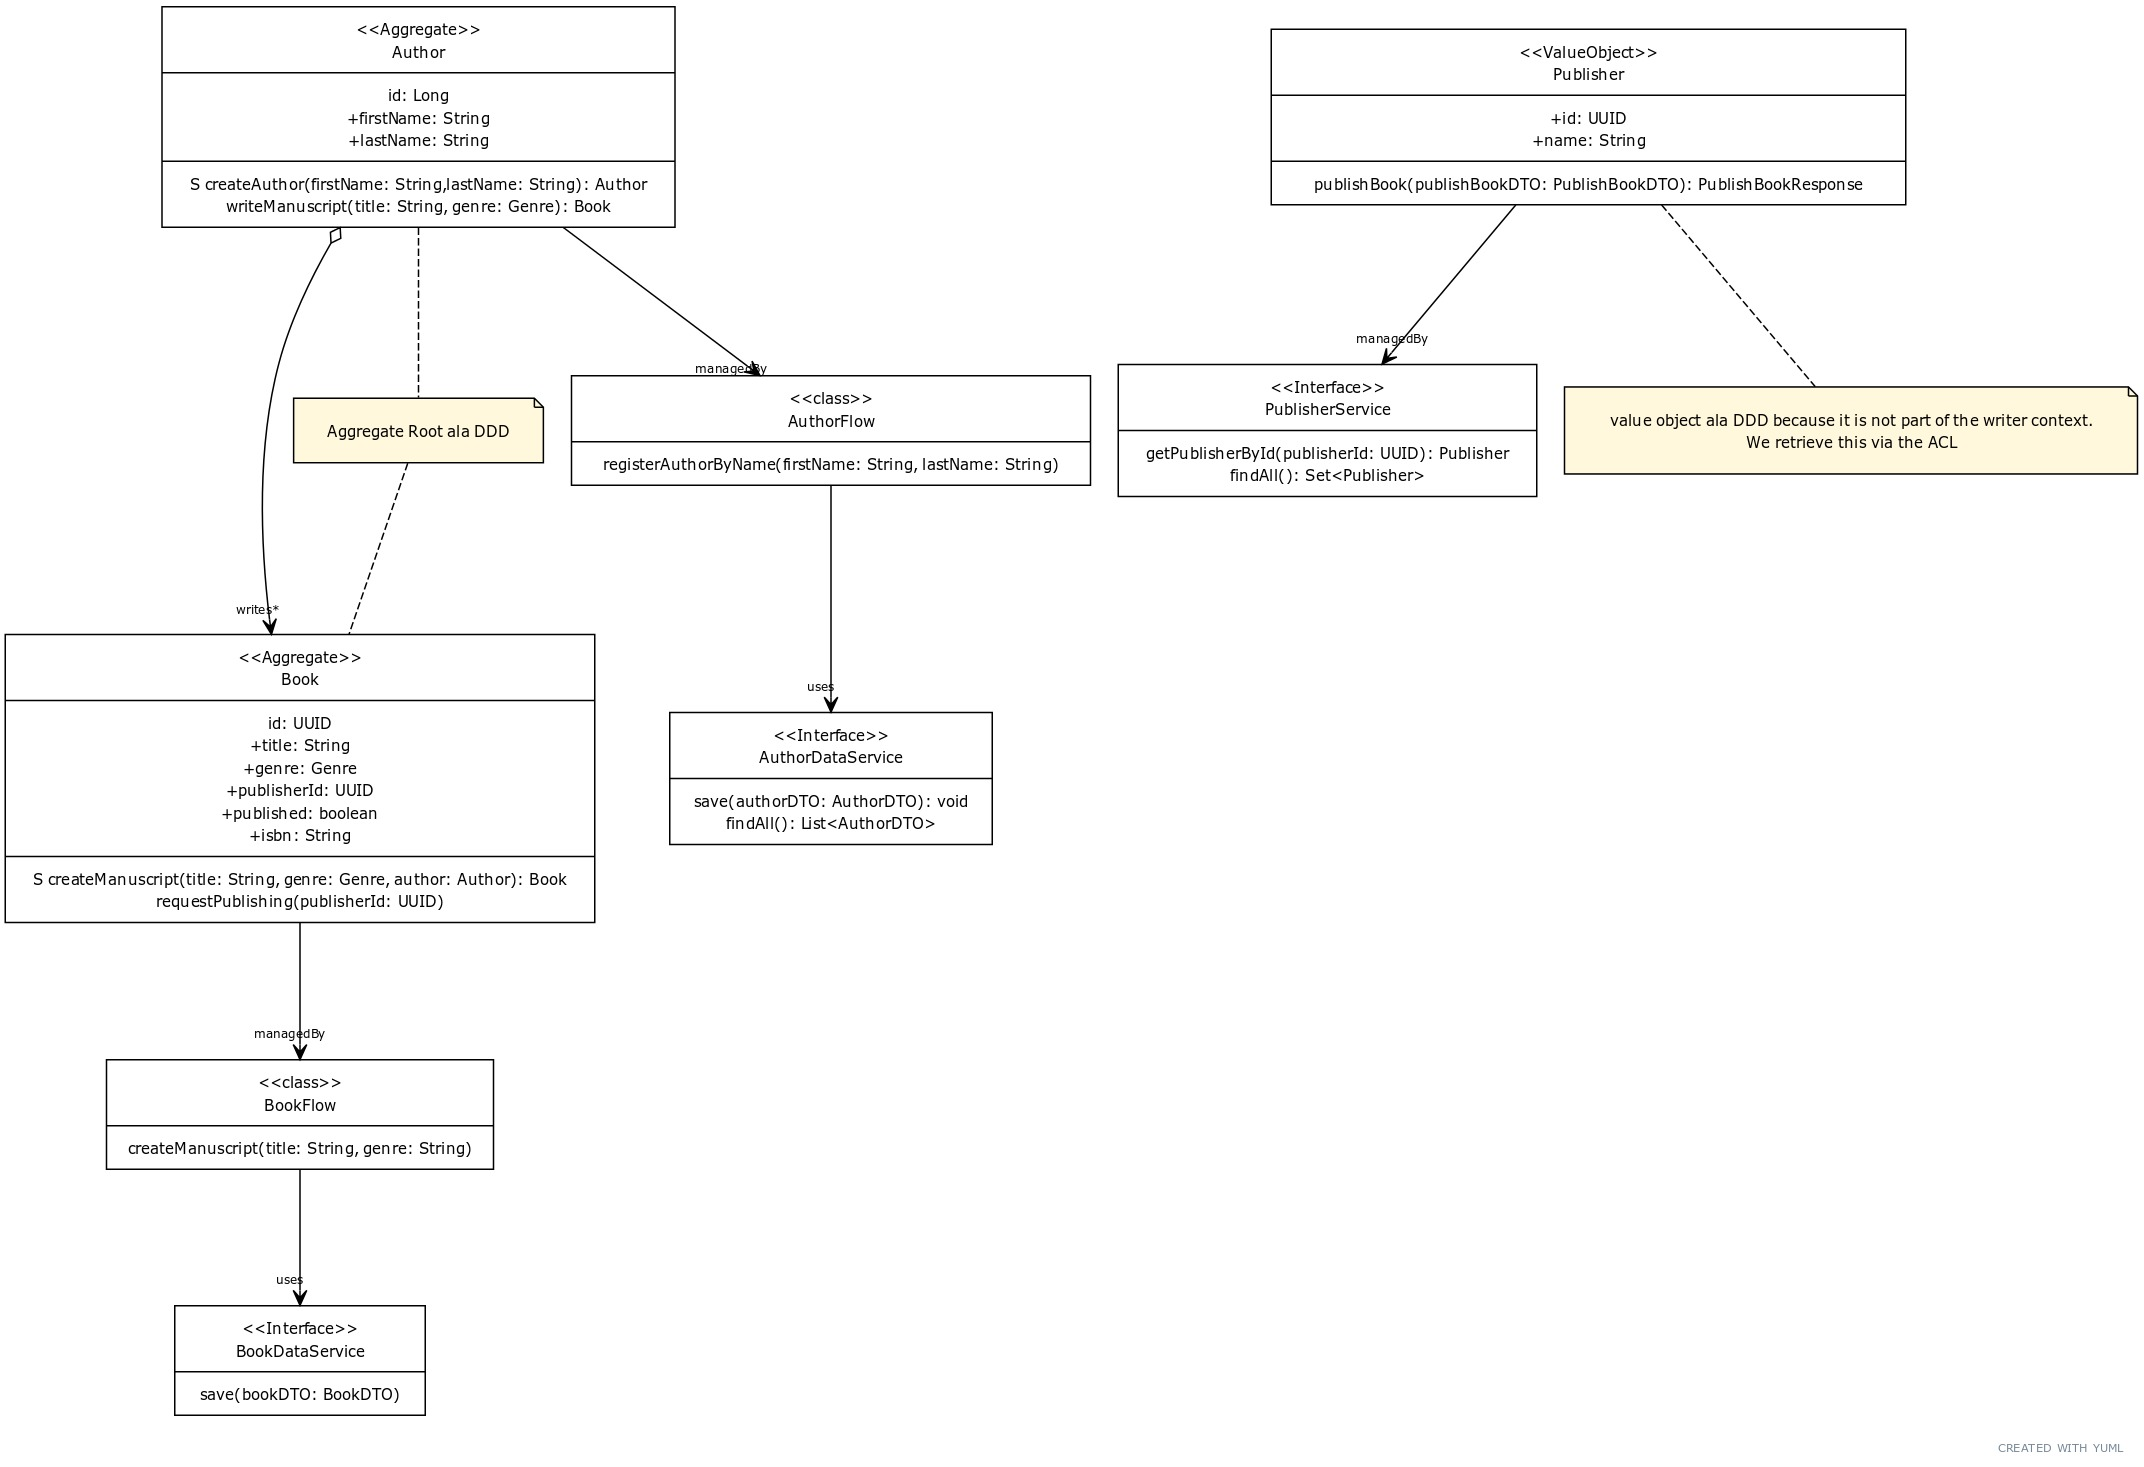
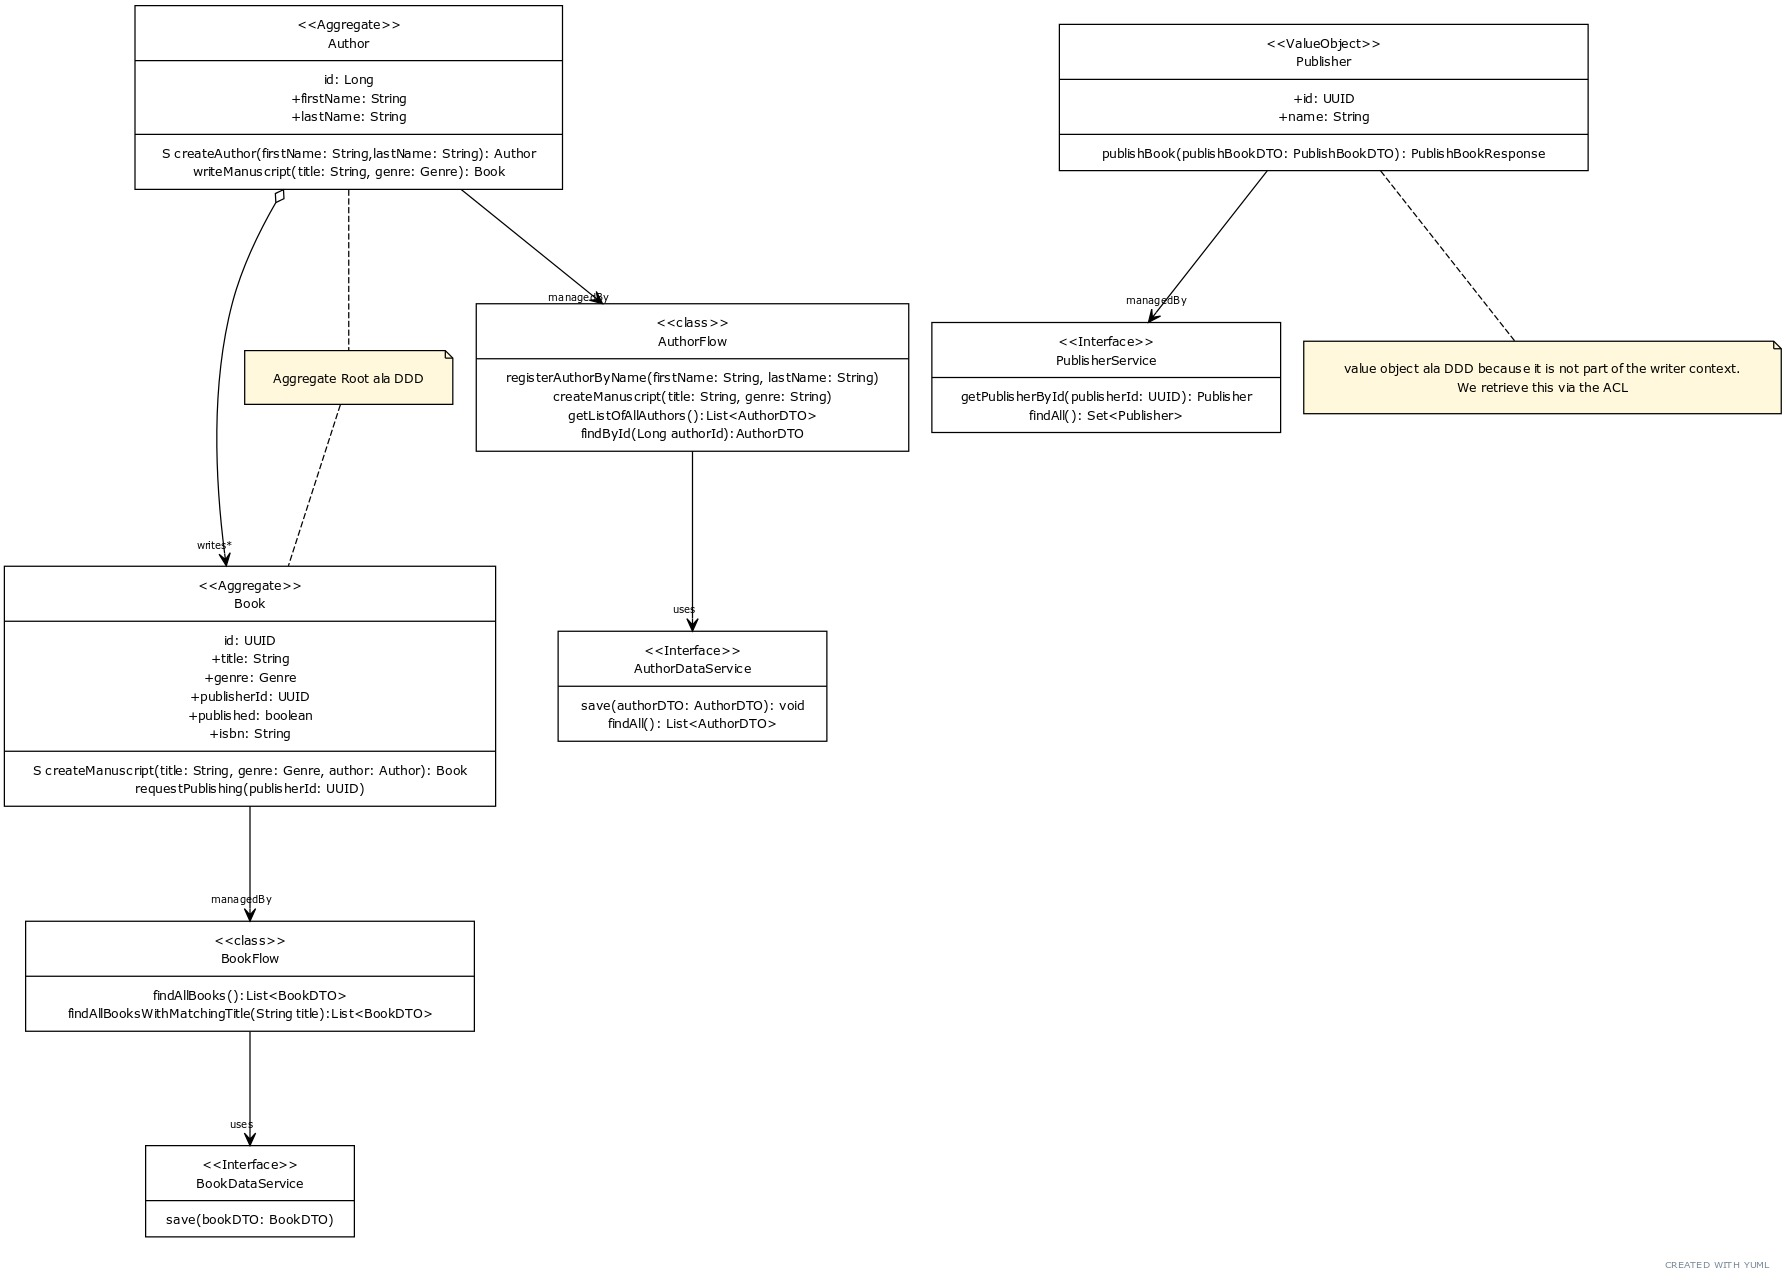
updates during session

diff --git a/docs/4-create-author-command.md b/docs/4-create-author-command.md
@@ -20,7 +20,9 @@ Content-Type: application/json
 }
 ```
 This endpoint should create an Author from the given Data Transfer Object (DTO) (or payload) and call the register
-function of an author on the domain interaction layer service. The standard response should be empty with status code 202.
+function of an author on the domain layer service (a port / interface). The standard response should be empty with 
+status 
+code 202.
 
 > **Tip:** You can add the above snippet in a file ``./http/AuthorCommands.http`` which allows you to execute the 
 > request from inside your IDE (if supported, IntelliJ does).
@@ -37,7 +39,7 @@ _And what about the id?_ Rest assured! We will solve this one later. It remains 
 
 ### The data port
 In order to be able to interact with our domain, we need to define a port (interface) called
-```/domain_interaction/author/AuthorService.java``` in our domain package. The required members can be found in the 
+```/domain/author/AuthorService.java``` in our domain package. The required members can be found in the 
 domain model. Afterwards, we inject this into our ```AuthorCommands.java```class in the constructor 
 (you could autowire it but let's stick to constructor injection).
 

diff --git a/docs/5-persist-author-data.md b/docs/5-persist-author-data.md
@@ -135,7 +135,8 @@ Inject the AuthorRepository into the AuthorServiceImpl and update the function i
 
 
 ### Validation
-Let's test your implementation. Update the AuthorCommandsTest.java and replace the previously added ``register()`` test 
+Let's test your implementation. Update the AuthorCommandsIntegrationTest.java and replace the previously added 
+``register()`` test 
 with the following Test:
 
 ```java

diff --git a/docs/8-do-it-yourself.md b/docs/8-do-it-yourself.md
@@ -11,6 +11,7 @@ After having completed the last chapter where we split of our domain interaction
 model:
 
 ### Domain Model Diagram
+UPDATE DOMAIN MODEL TO CONTAIN CORRECT METHODS
 ![updated_domain_model.jpg](updated_domain_model.jpg)
 
 ### The API
